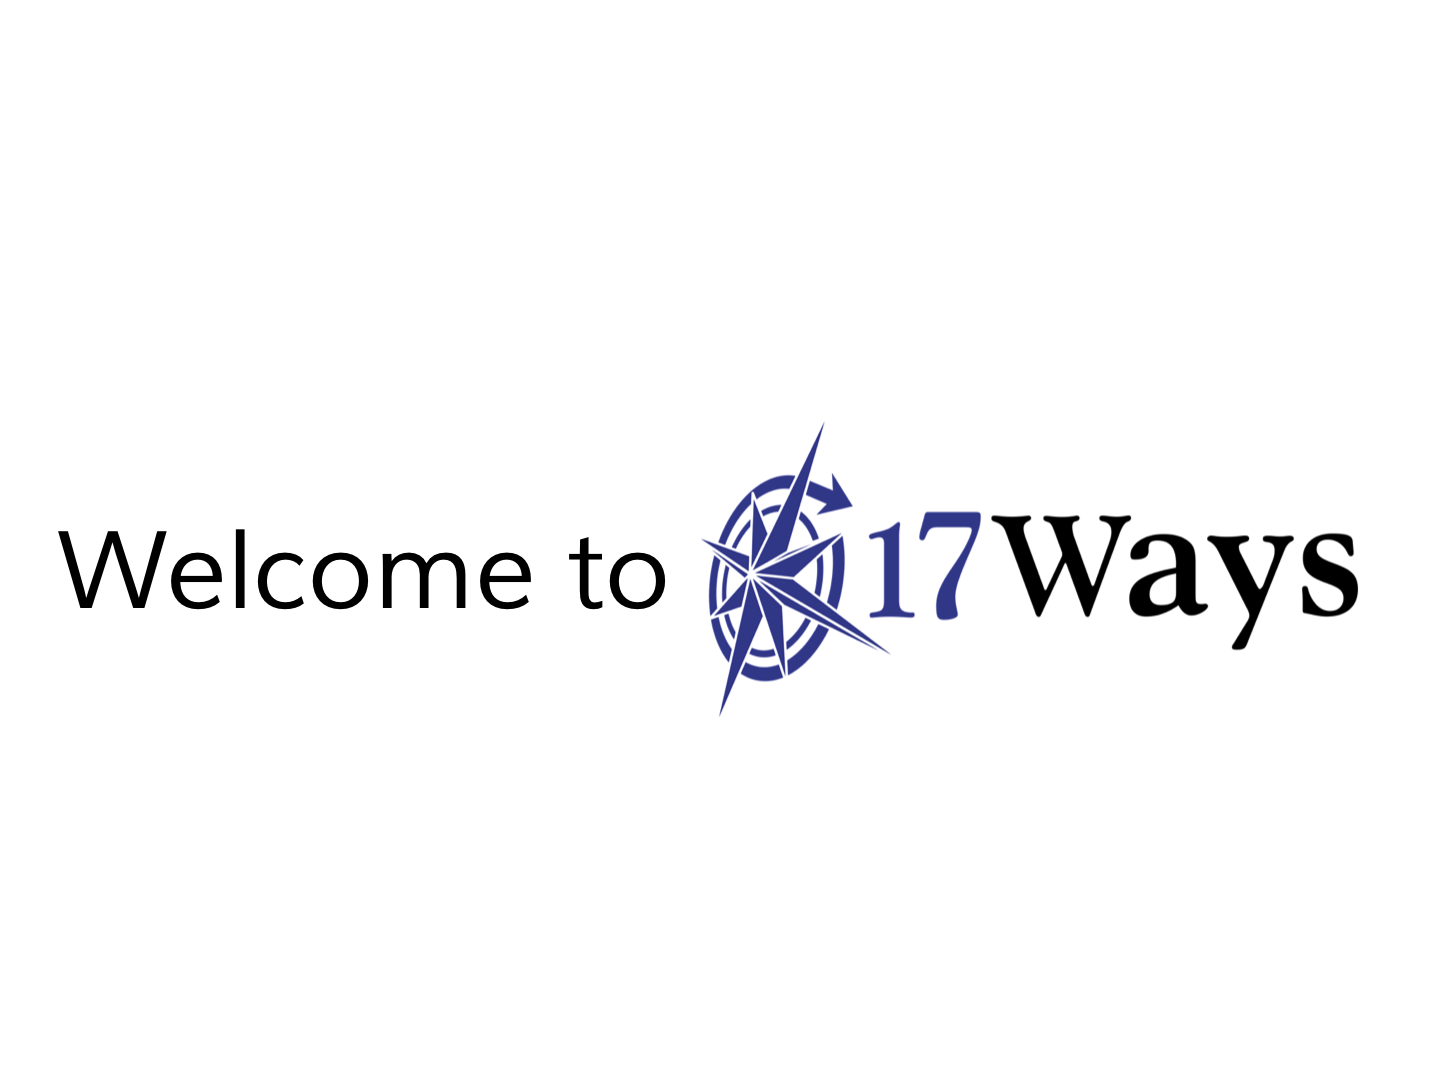
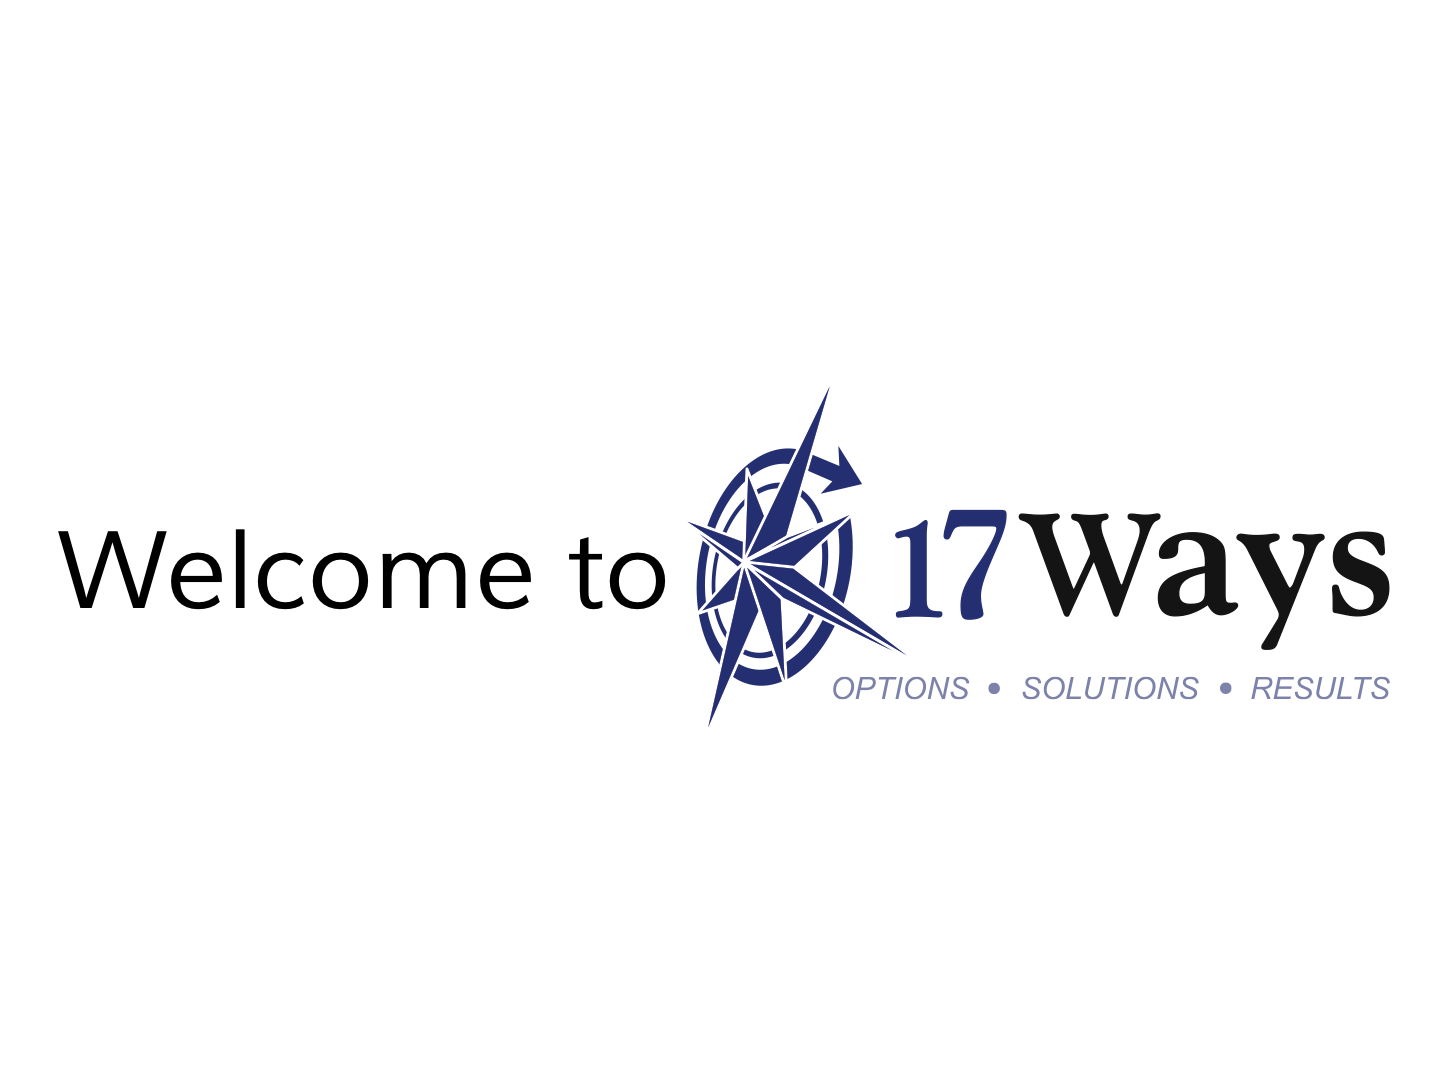
Cleaned up and added slideshow pics.

Changed region(s): [[0.4688, 0.3667, 0.9688, 0.6417]]

diff --git a/index.html b/index.html
@@ -70,17 +70,25 @@
                         <div class="camera_caption fadeIn">
                         </div>
                     </div>
-                    <div data-src="images/slider/17ways_big_logo.png">
+                    <div data-src="images/slider/transition0.png">
                         <div class="camera_caption fadeIn">
                         </div>
                     </div>
-                    <div data-src="images/slider/17ways_big_logo_with_motto.png">
+                    <div data-src="images/slider/transition1.png">
+                        <div class="camera_caption fadeIn">
+                        </div>
+                    </div>
+                    <div data-src="images/slider/transition2.png">
+                        <div class="camera_caption fadeIn">
+                        </div>
+                    </div>
+                    <div data-src="images/slider/transition3.png">
                         <div class="camera_caption fadeIn">
                         </div>
                     </div>
                     <div data-src="images/slider/us.jpg">
                         <div class="camera_caption2 fadeIn">
-                            <div class="slide_descr">A new team</div>
+                            <div class="slide_descr">A new team - working for you</div>
                         </div>
                     </div>
                     <div data-src="images/slider/Welcome_to_17ways.png">
